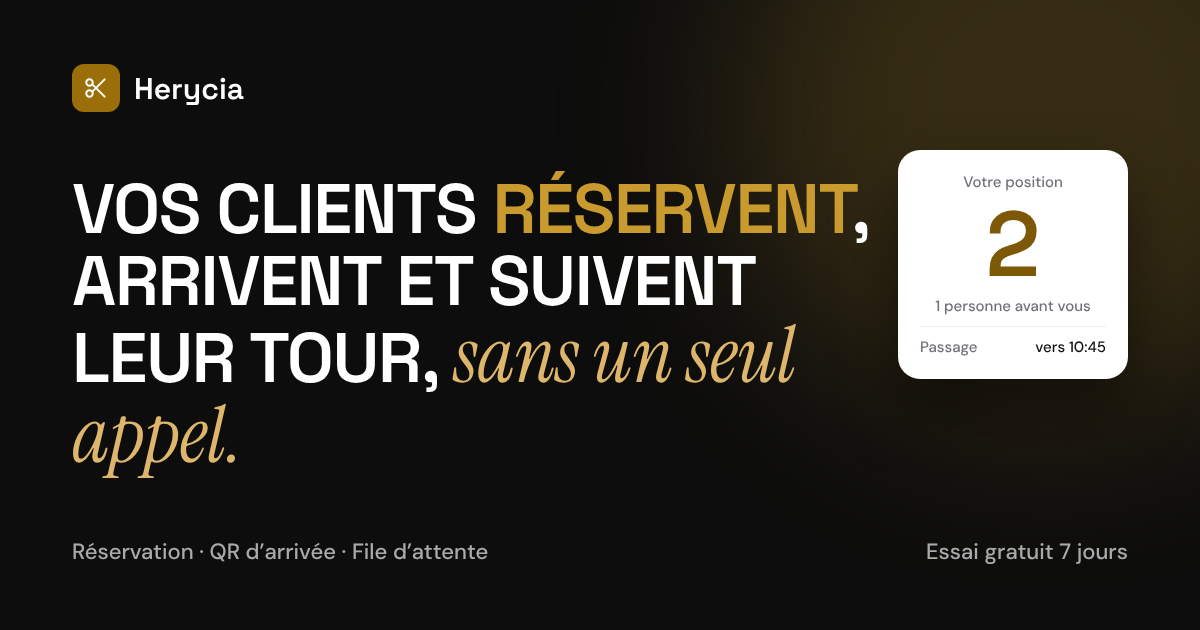
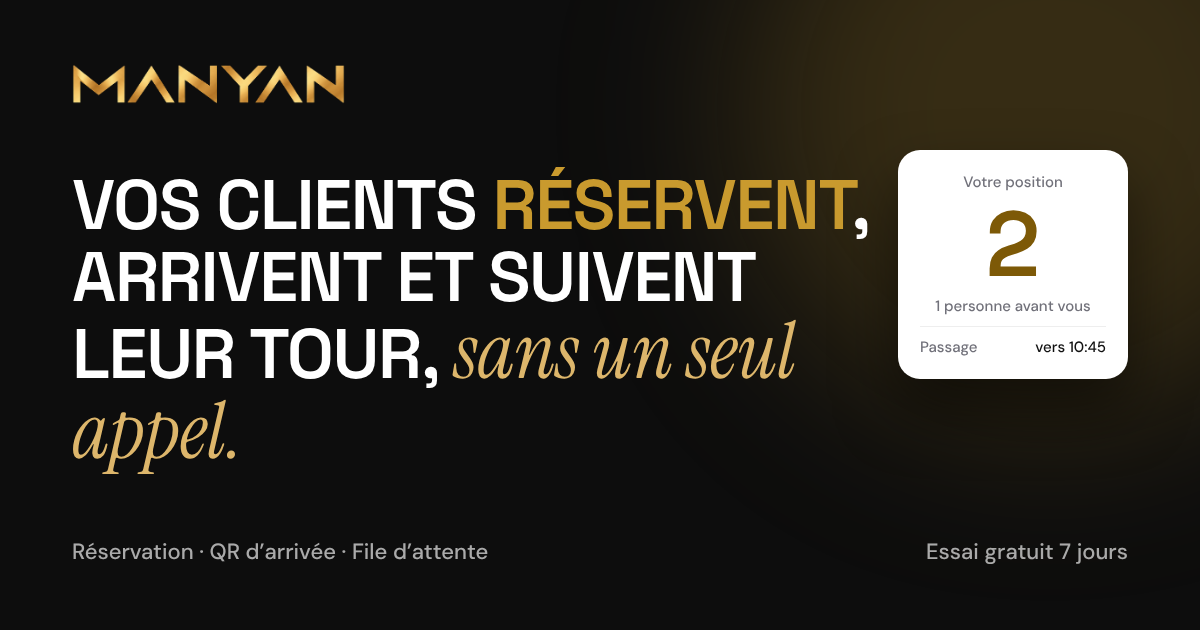
feat(brand): le produit s'appelle MANYAN
- Logo MANYAN (or, fond transparent) via BrandLogo dans la navigation,
  l'authentification et le pied de page ; icône « M » pour l'onglet
  (favicon.ico 32/48, manyan-icon.png, apple-touch-icon) et la barre
  latérale super admin.
- Tous les textes visibles passent de Herycia à MANYAN (titres, SEO,
  Open Graph, JSON-LD, abonnement, admin) ; nom centralisé dans
  src/lib/brand.ts. Nouvelle image de partage og-image.png.
- Clés du navigateur renommées en manyan_* avec reprise automatique des
  anciennes clés herycia_* au démarrage : personne n'est déconnecté ni
  ne perd ses rendez-vous mémorisés (tests associés).
- Suppression de l'ancien logo (logo-herycia.png, HeryciaLogo,
  HeryciaWordmark) ; README, docs et nom du paquet mis à jour.

Claude-Session: https://claude.ai/code/session_018sawmtEa9SDqR9ybQHMqcc

diff --git a/index.html b/index.html
@@ -3,7 +3,7 @@
   <head>
     <meta charset="UTF-8" />
     <meta name="viewport" content="width=device-width, initial-scale=1.0" />
-    <title>Herycia : réservation et file d’attente pour salons de coiffure</title>
+    <title>MANYAN : réservation et file d’attente pour salons de coiffure</title>
     <meta
       name="description"
       content="Réservation en ligne, arrivée par QR code et file d’attente pour les salons de coiffure en Côte d’Ivoire. Vos clients savent quand vient leur tour."
@@ -12,14 +12,14 @@
     <meta name="google" content="notranslate" />
     <meta name="theme-color" content="#0d0d0d" />
     <link rel="canonical" href="__SITE_URL__/" />
-    <link rel="icon" type="image/png" href="/logo-herycia.png" />
-    <link rel="apple-touch-icon" href="/logo-herycia.png" />
+    <link rel="icon" type="image/png" href="/manyan-icon.png" />
+    <link rel="apple-touch-icon" href="/apple-touch-icon.png" />
 
     <!-- Aperçus de lien (WhatsApp, Facebook, LinkedIn, X) : lus sans JavaScript. -->
     <meta property="og:type" content="website" />
     <meta property="og:locale" content="fr_CI" />
-    <meta property="og:site_name" content="Herycia" />
-    <meta property="og:title" content="Herycia : réservation et file d’attente pour salons de coiffure" />
+    <meta property="og:site_name" content="MANYAN" />
+    <meta property="og:title" content="MANYAN : réservation et file d’attente pour salons de coiffure" />
     <meta
       property="og:description"
       content="Vos clients réservent en ligne, scannent un QR code en arrivant et voient leur tour arriver. Essai gratuit 7 jours."
@@ -28,9 +28,9 @@
     <meta property="og:image" content="__SITE_URL__/og-image.png" />
     <meta property="og:image:width" content="1200" />
     <meta property="og:image:height" content="630" />
-    <meta property="og:image:alt" content="Herycia, la file d’attente de votre salon sur le téléphone de vos clients" />
+    <meta property="og:image:alt" content="MANYAN, la file d’attente de votre salon sur le téléphone de vos clients" />
     <meta name="twitter:card" content="summary_large_image" />
-    <meta name="twitter:title" content="Herycia : réservation et file d’attente pour salons de coiffure" />
+    <meta name="twitter:title" content="MANYAN : réservation et file d’attente pour salons de coiffure" />
     <meta
       name="twitter:description"
       content="Vos clients réservent en ligne, scannent un QR code en arrivant et voient leur tour arriver."
@@ -50,7 +50,7 @@
       {
         "@context": "https://schema.org",
         "@type": "SoftwareApplication",
-        "name": "Herycia",
+        "name": "MANYAN",
         "applicationCategory": "BusinessApplication",
         "operatingSystem": "Web",
         "inLanguage": "fr",

diff --git a/src/components/layout/AdminSidebar.vue b/src/components/layout/AdminSidebar.vue
@@ -6,7 +6,6 @@ import {
   IconLayoutDashboard,
   IconPackage,
   IconRefresh,
-  IconScissors,
   IconUsers,
 } from '@tabler/icons-vue'
 import { Button } from '@/components/ui/button'
@@ -33,13 +32,9 @@ function isActive(path: string, exact: boolean) {
   <aside class="flex h-full flex-col border-r border-border bg-card">
     <div class="border-b border-border p-4">
       <div class="flex items-center gap-3">
-        <div
-          class="flex h-8 w-8 shrink-0 items-center justify-center rounded-lg bg-primary-600 shadow-sm"
-        >
-          <IconScissors :size="16" :stroke-width="1.5" class="text-white" />
-        </div>
+        <img src="/manyan-icon.png" alt="" class="h-8 w-8 shrink-0 rounded-lg" />
         <div class="min-w-0">
-          <p class="truncate text-sm font-semibold text-foreground">HERYCIA</p>
+          <p class="truncate text-sm font-semibold text-foreground">MANYAN</p>
           <p class="text-[11px] text-muted-foreground">Super Admin</p>
         </div>
       </div>
@@ -72,7 +67,7 @@ function isActive(path: string, exact: boolean) {
 
     <div class="p-4">
       <div class="rounded-lg bg-primary-50 px-3 py-2.5">
-        <p class="text-xs font-medium text-primary-800">Plateforme Herycia</p>
+        <p class="text-xs font-medium text-primary-800">Plateforme MANYAN</p>
         <p class="mt-0.5 text-[11px] text-primary-600/80">Suivi & facturation SaaS</p>
       </div>
     </div>

diff --git a/src/layouts/AuthLayout.vue b/src/layouts/AuthLayout.vue
@@ -3,7 +3,7 @@ import '@/assets/auth.css'
 import { computed } from 'vue'
 import { useRoute } from 'vue-router'
 import AuthBrandPanel from '@/components/auth/AuthBrandPanel.vue'
-import HeryciaWordmark from '@/components/brand/HeryciaWordmark.vue'
+import BrandLogo from '@/components/brand/BrandLogo.vue'
 
 const route = useRoute()
 const isLogin = computed(() => route.name === 'login')
@@ -31,8 +31,8 @@ const heading = computed(() => {
 <template>
   <div class="auth-page flex min-h-screen bg-card">
     <div class="flex flex-1 flex-col px-6 py-8 sm:px-10 lg:px-16">
-      <RouterLink to="/" class="w-fit rounded-lg" aria-label="Herycia, retour à l’accueil">
-        <HeryciaWordmark />
+      <RouterLink to="/" class="w-fit rounded-lg" aria-label="MANYAN, retour à l’accueil">
+        <BrandLogo size="lg" />
       </RouterLink>
 
       <main class="mx-auto flex w-full flex-1 flex-col justify-center py-12" :class="formMaxWidth">
@@ -59,7 +59,7 @@ const heading = computed(() => {
         </p>
       </main>
 
-      <p class="text-xs text-muted-foreground">© {{ new Date().getFullYear() }} Herycia</p>
+      <p class="text-xs text-muted-foreground">© {{ new Date().getFullYear() }} MANYAN</p>
     </div>
 
     <AuthBrandPanel />

diff --git a/src/lib/__tests__/storage-migration.spec.ts b/src/lib/__tests__/storage-migration.spec.ts
@@ -1,0 +1,28 @@
+import { beforeEach, describe, expect, it } from 'vitest'
+import { migrateLegacyStorageKeys } from '@/lib/storage-migration'
+
+describe('migrateLegacyStorageKeys', () => {
+  beforeEach(() => localStorage.clear())
+
+  it('reprend les anciennes clés herycia_* sous manyan_* puis les supprime', () => {
+    localStorage.setItem('herycia_token', 'jwt-123')
+    localStorage.setItem('herycia_bookings', '[]')
+
+    migrateLegacyStorageKeys()
+
+    expect(localStorage.getItem('manyan_token')).toBe('jwt-123')
+    expect(localStorage.getItem('manyan_bookings')).toBe('[]')
+    expect(localStorage.getItem('herycia_token')).toBeNull()
+    expect(localStorage.getItem('herycia_bookings')).toBeNull()
+  })
+
+  it('ne remplace jamais une valeur déjà présente sous la nouvelle clé', () => {
+    localStorage.setItem('manyan_token', 'nouveau')
+    localStorage.setItem('herycia_token', 'ancien')
+
+    migrateLegacyStorageKeys()
+
+    expect(localStorage.getItem('manyan_token')).toBe('nouveau')
+    expect(localStorage.getItem('herycia_token')).toBeNull()
+  })
+})

diff --git a/src/components/subscription/SettingsSubscriptionCard.vue b/src/components/subscription/SettingsSubscriptionCard.vue
@@ -36,7 +36,7 @@ function upgradeLabel(target: PublicPlan) {
 <template>
   <section class="rounded-xl border border-border bg-card p-6">
     <p class="text-xs font-medium uppercase tracking-wide text-muted-foreground">Abonnement</p>
-    <h2 class="mt-1 text-lg font-semibold text-foreground">Mon plan Herycia</h2>
+    <h2 class="mt-1 text-lg font-semibold text-foreground">Mon plan MANYAN</h2>
 
     <template v-if="store.loading && !sub">
       <Skeleton class="mt-4 h-24 w-full rounded-lg" />
@@ -76,7 +76,7 @@ function upgradeLabel(target: PublicPlan) {
       >
         <p class="text-sm font-medium text-danger-900">Essai ou abonnement expiré</p>
         <p class="mt-1 text-xs text-danger-800">
-          Payez votre plan {{ plan.name }} pour retrouver l'accès à Herycia.
+          Payez votre plan {{ plan.name }} pour retrouver l'accès à MANYAN.
         </p>
         <Button
           class="mt-3 bg-primary-600 text-white hover:bg-primary-800"

diff --git a/src/components/landing/LandingFooter.vue b/src/components/landing/LandingFooter.vue
@@ -1,5 +1,5 @@
 <script setup lang="ts">
-import HeryciaWordmark from '@/components/brand/HeryciaWordmark.vue'
+import BrandLogo from '@/components/brand/BrandLogo.vue'
 
 const links = [
   { href: '#reservation', label: 'Parcours client' },
@@ -12,7 +12,7 @@ const links = [
   <footer class="landing-dark px-4 py-12 md:px-10">
     <div class="mx-auto flex max-w-6xl flex-col gap-8 md:flex-row md:items-start md:justify-between">
       <div class="max-w-xs">
-        <HeryciaWordmark tone="dark" />
+        <BrandLogo size="lg" />
         <p class="mt-3 text-sm text-white/60">
           Conçu pour les salons de coiffure en Côte d’Ivoire.
         </p>
@@ -26,7 +26,7 @@ const links = [
       </nav>
     </div>
     <p class="mx-auto mt-10 max-w-6xl border-t border-white/10 pt-6 text-xs text-white/50">
-      © {{ new Date().getFullYear() }} Herycia
+      © {{ new Date().getFullYear() }} MANYAN
     </p>
   </footer>
 </template>

diff --git a/src/lib/storage-migration.ts b/src/lib/storage-migration.ts
@@ -1,0 +1,24 @@
+/**
+ * Renommage du produit (Herycia → MANYAN) : les clés du navigateur changent de préfixe.
+ * On recopie les anciennes valeurs une seule fois pour que personne ne soit déconnecté
+ * ni ne perde ses rendez-vous mémorisés.
+ */
+const RENAMED_KEYS: Array<[string, string]> = [
+  ['herycia_token', 'manyan_token'],
+  ['herycia_user', 'manyan_user'],
+  ['herycia_selected_plan_code', 'manyan_selected_plan_code'],
+  ['herycia_bookings', 'manyan_bookings'],
+]
+
+export function migrateLegacyStorageKeys(storage: Storage = window.localStorage) {
+  try {
+    for (const [legacy, current] of RENAMED_KEYS) {
+      const value = storage.getItem(legacy)
+      if (value === null) continue
+      if (storage.getItem(current) === null) storage.setItem(current, value)
+      storage.removeItem(legacy)
+    }
+  } catch {
+    // Stockage indisponible (navigation privée, quotas) : rien à migrer.
+  }
+}

diff --git a/src/components/landing/LandingNavbar.vue b/src/components/landing/LandingNavbar.vue
@@ -1,5 +1,5 @@
 <script setup lang="ts">
-import HeryciaWordmark from '@/components/brand/HeryciaWordmark.vue'
+import BrandLogo from '@/components/brand/BrandLogo.vue'
 import LandingButton from '@/components/landing/LandingButton.vue'
 
 const links = [
@@ -12,8 +12,8 @@ const links = [
 <template>
   <header class="sticky top-0 z-50 border-b border-foreground/10 bg-[#f6f2ea] px-4 md:px-10">
     <div class="mx-auto flex max-w-6xl items-center justify-between gap-4 py-3">
-      <RouterLink to="/" class="rounded-lg" aria-label="Herycia, accueil">
-        <HeryciaWordmark />
+      <RouterLink to="/" class="rounded-lg" aria-label="MANYAN, accueil">
+        <BrandLogo size="lg" />
       </RouterLink>
 
       <nav class="hidden items-center gap-7 md:flex" aria-label="Sections">

diff --git a/src/components/landing/CtaSection.vue b/src/components/landing/CtaSection.vue
@@ -8,7 +8,7 @@ import LandingReveal from '@/components/landing/LandingReveal.vue'
   <section class="landing-dark landing-grain border-b border-white/10 px-4 py-24 md:px-10 md:py-32">
     <LandingReveal class="relative mx-auto max-w-6xl">
       <h2 class="max-w-4xl text-[36px] font-semibold uppercase leading-[1.04] tracking-tight md:text-[68px]">
-        Essayez Herycia dans votre salon,
+        Essayez MANYAN dans votre salon,
         <span class="landing-serif text-[1.12em] text-primary-300">pendant 7 jours.</span>
       </h2>
       <p class="mt-6 max-w-xl text-[17px] text-white/60">

diff --git a/src/lib/seo.ts b/src/lib/seo.ts
@@ -1,10 +1,11 @@
 import type { RouteLocationNormalized } from 'vue-router'
+import { BRAND_NAME } from '@/lib/brand'
 
 /**
  * SEO côté client : titre, description, indexation et URL canonique de chaque page.
  * Le nom du produit est centralisé ici (et dans index.html) pour un futur renommage.
  */
-export const SITE_NAME = 'Herycia'
+export const SITE_NAME = BRAND_NAME
 
 export const DEFAULT_DESCRIPTION =
   'Réservation en ligne, arrivée par QR code et file d’attente pour les salons de coiffure en Côte d’Ivoire. Vos clients savent quand vient leur tour.'

diff --git a/src/components/brand/BrandLogo.vue b/src/components/brand/BrandLogo.vue
@@ -1,0 +1,19 @@
+<script setup lang="ts">
+import { BRAND_NAME } from '@/lib/brand'
+
+/** Logo MANYAN (or, fond transparent) : lisible sur fond clair comme sur fond noir. */
+withDefaults(defineProps<{ size?: 'sm' | 'md' | 'lg' }>(), { size: 'md' })
+
+const heights = { sm: 'h-4', md: 'h-5', lg: 'h-7' } as const
+</script>
+
+<template>
+  <img
+    src="/manyan-logo.png"
+    :alt="BRAND_NAME"
+    width="1251"
+    height="183"
+    :class="[heights[size], 'w-auto shrink-0 select-none']"
+    draggable="false"
+  />
+</template>

diff --git a/src/components/subscription/SubscriptionExpiredWall.vue b/src/components/subscription/SubscriptionExpiredWall.vue
@@ -20,7 +20,7 @@ function goToPayment() {
       <p class="text-lg font-semibold text-foreground">Abonnement expiré</p>
       <p class="mt-2 text-sm text-muted-foreground">
         Votre période d'essai ou votre abonnement est terminé. Payez votre plan pour continuer à
-        utiliser Herycia.
+        utiliser MANYAN.
       </p>
       <Button class="mt-6 bg-primary-600 text-white hover:bg-primary-800" @click="goToPayment">
         Payer mon abonnement
